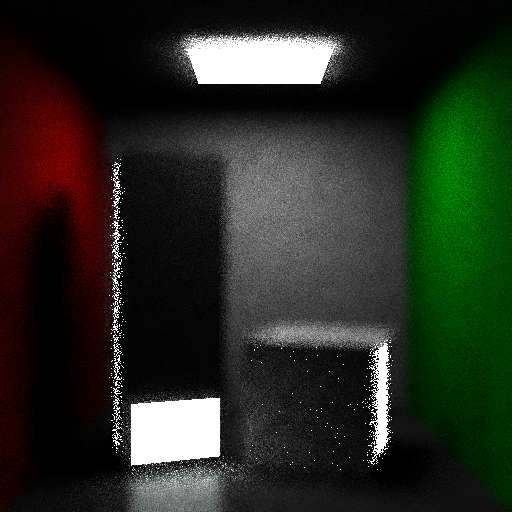
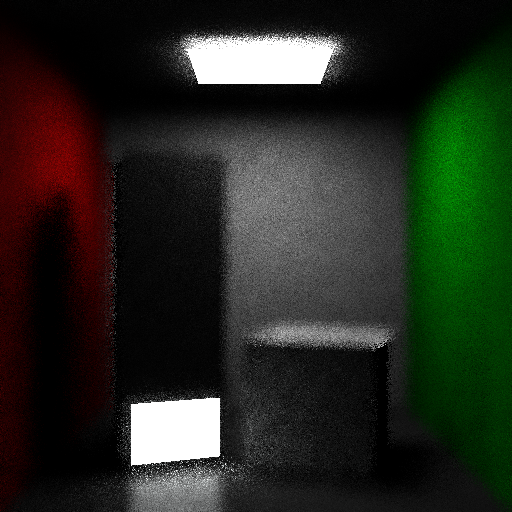
* Empty reservoirs are now black

Changed region(s): [[0.2188, 0.3125, 0.25, 0.875], [0.7188, 0.6562, 0.7812, 0.9062]]

diff --git a/ReservoirJoin/ReservoirJoin.cpp b/ReservoirJoin/ReservoirJoin.cpp
@@ -614,7 +614,7 @@ void render(std::vector<tReservoir> const &src, std::vector<tGbuffer> const &gbu
         }
         if (r.m == 0.0f)
         {
-            output[i] = 0x0;
+            output[i] = 0x0ff000000;
             continue;
         }
         output[i] = (r.c_sum / r.m).saturated().color(255);
